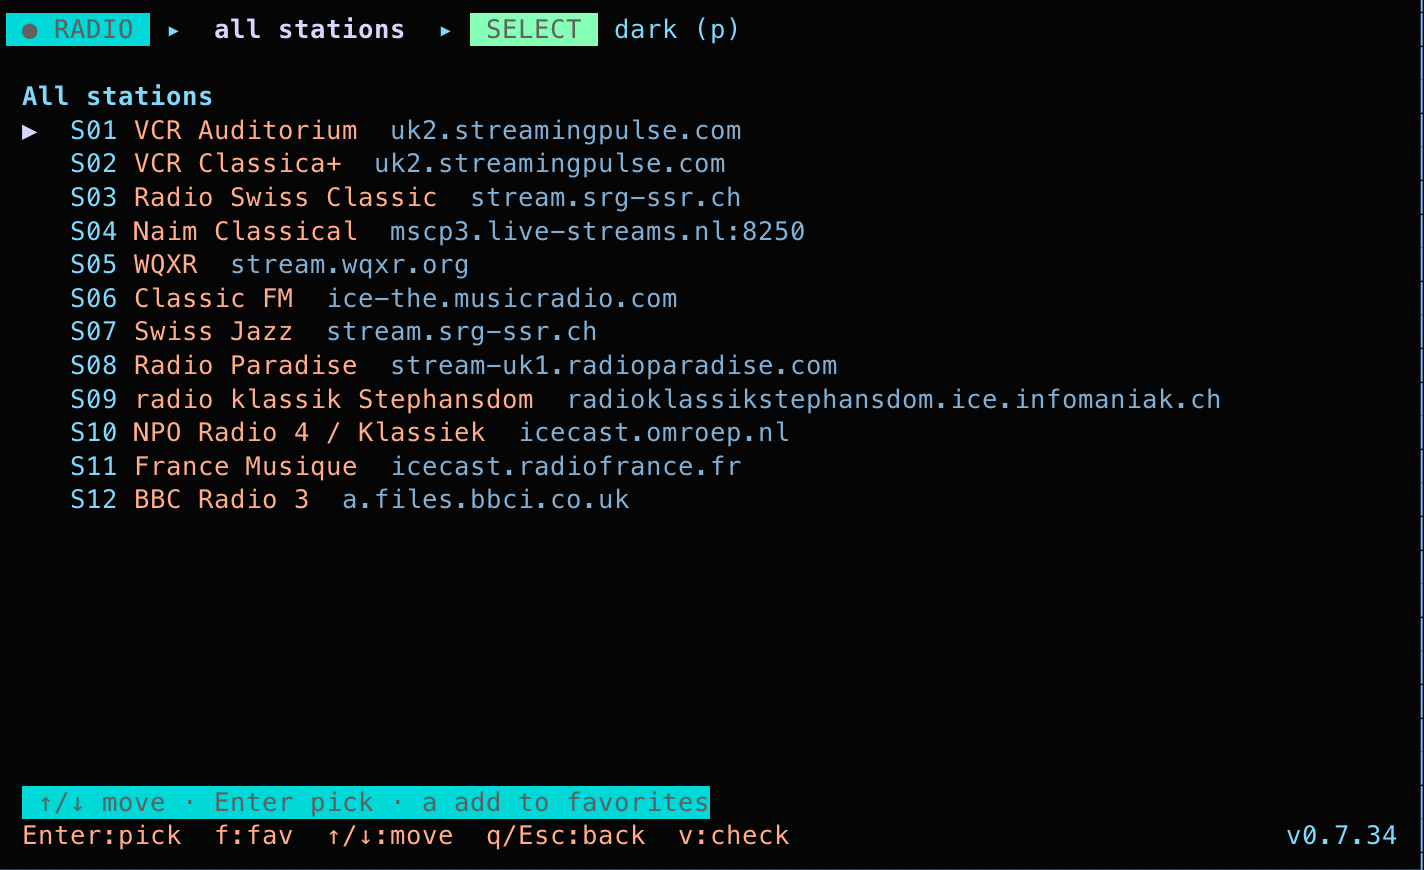
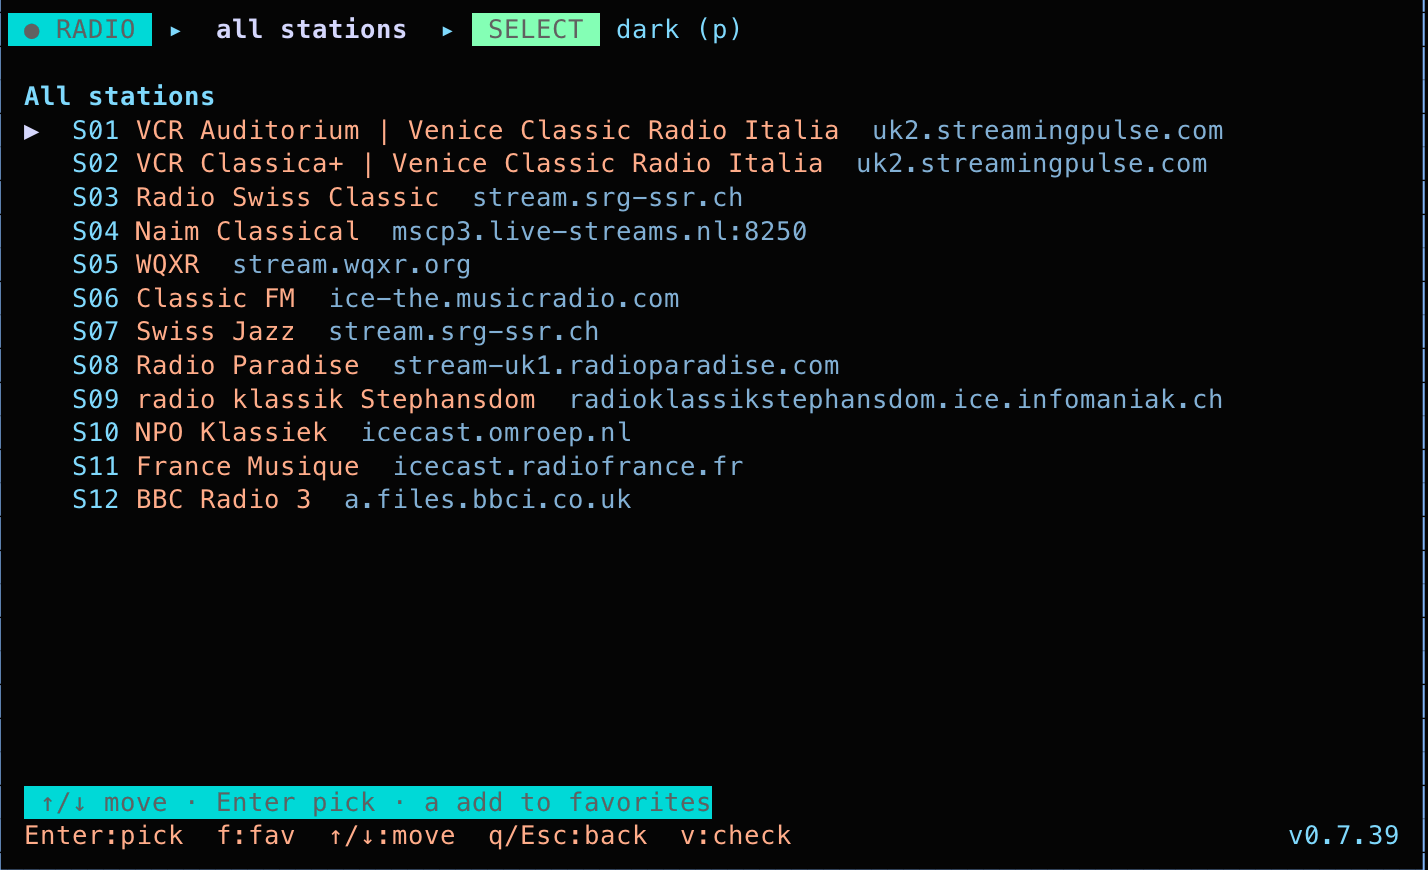
docs: MEMORY up to date (DOCS-sync rule + 0.7.40 state); all-stations.png refreshed after the name fix

diff --git a/.opencode/MEMORY.md b/.opencode/MEMORY.md
@@ -7,6 +7,13 @@
   to origin — then confirm with the resulting commit hash. Never leave work
   uncommitted/unpushed after a task; committing AND pushing correctly is
   critical and has been the source of past mistakes.
+- **DOCS MUST STAY IN SYNC (my responsibility):** whenever a bug is corrected
+  or a feature is added, altered or removed, it is MY job to reflect that in
+  **README.md** and — above all — in **KB.md**, inside the same change/commit,
+  never as an afterthought or a later "oops". README = short appetizer
+  (details point to the KB); KB.md = the complete, single source of truth.
+  If a release ships a behavior change, the docs for it ship in the same
+  release.
 
 > Read this first in every session so we can pick up where we left off.
 > Update it whenever the project state changes significantly.
@@ -43,7 +50,7 @@
 **mpv** as its audio engine over an IPC socket, plus optional **AI enrichment**
 (trivia note / Work line / verified Wikipedia link) for the now-playing track.
 
-- Single self-contained file: `./mradio` (~1058 lines), Python 3.8+, **stdlib
+- Single self-contained file: `./mradio` (~1790 lines), Python 3.8+, **stdlib
   only, no pip dependencies**.
 - Repo: `git@github.com:Marcus1571/mradio.git` (user: `Marcus1571`).
 - No local demo branch conventions — trivial `main` history, semantic-version
@@ -51,39 +58,44 @@
 
 ## Current state
 
-- **Latest version:** `0.7.24` (in-code `VERSION`; released tag + GitHub
-  Release with assets, `Latest`).
+- **Latest version / release:** `0.7.40` (in-code `VERSION`, released tag +
+  GitHub Release with assets `mradio` + `install.sh`, verified `Latest`).
+  `main` is kept in sync with every release (push `main` alongside each tag).
 - **Palettes:** `p` rotates `dark` → `light` → `light-navy` → `light-mauve`
   (256-color Catppuccin-inspired, ANSI fallback; pair 5 = muted subtext).
-- **Sub-project — station presets:** see `.opencode/stationsproject.md` for
-  the living candidate/approved station list. **The user personally approves
-  each station; the assistant must NEVER add stations to the file on its own
-  initiative.** Approved: `WQXR`, `Radio Swiss Classic` (label "Swiss Classic
-  I" — Italian feed). Shipped in releases: station menu (0.7.25), reordered
-  defaults + honest help (0.7.26), picker `v`/`u`/`U` keys (0.7.27),
-  favorites vs all-stations split (0.7.28): `f` = your numbered list from
-  `~/.local/share/mradio/stations.json` (key `"favorites"`, seeded once from
-  `DEFAULT_STATIONS`, releases never touch it), `s` = the curated `S01…Snn`
-  list (grows per release, `a` adds a row to favorites), bare launch opens
-  `f`. **On `main`, unreleased (next = 0.7.29):** favorites go up to 10
-  (`1-9` then `0`); numeric-pad digits (terminal-sent `Esc`-prefixed
-  sequences) resolve to the same hot-picks as the main number row.
-  Legacy `config.json` → `"stations"` migrated on first run;
-  `MRADIO_STATIONS` overrides the path.
-- **Docs:** `README.md` = quick start; **`KB.md`** = the full reference manual
-  (every key, menu, config/`stations.json`, env vars, update flow, AI
-  enrichment, troubleshooting, privacy) — keep in sync when features change;
-  `CHANGELOG.md` = release history.
-- **Latest release:** `0.7.28` (tag + GitHub Release, assets mradio/install.sh,
-  `Latest`). The U self-update flow was validated live earlier (v0.7.18 →
-  v0.7.19 → apply on restart).
-- **0.7.21 work (uncommitted until c.p'd):** `v` key forces a version check
-  without quitting — `force_check(state)` serializes via `_forced_lock` /
-  `_check_lock`, flashes outcome via `_latest["note"]` → `update_msg`
-  ("new version vX — press U" / "up to date (vX)" / "check failed"). Hints now
-  `u:page  U:apply  v:check`. 25 unit tests.
-- **NOTE:** user prefers to update locally themselves via the `U` key
-  (self-update) — do NOT run `install.sh` for them unless asked.
+- **Station model (0.7.28+):** two deliberate lists.
+  - **Favorites** (`f`): user's list in
+    `~/.local/share/mradio/stations.json` (key `"favorites"`), max **10** hot
+    slots (`1-9` + `0`; numpad digits resolve via `_follow_esc`). Seeded once,
+    on first run, from the **first 10** of `DEFAULT_STATIONS`; legacy
+    `config.json` `"stations"` migrated once (trimmed to 10). Releases never
+    touch it. `a` (in the `s` menu) adds a row but refuses when full ("favorites
+    full"). `MRADIO_STATIONS` overrides the path.
+  - **All stations** (`s`): the curated `S01…Snn` list shipped in the code
+    (`DEFAULT_STATIONS`, currently 12) — this is how the project pushes new
+    stations without overriding the user's list.
+  - **Names:** both lists now use the real broadcast names (icy): `VCR
+    Auditorium | Venice Classic Radio Italia`, `VCR Classica+ | Venice Classic
+    Radio Italia`, `NPO Klassiek`. At runtime an icy-name also overrides the
+    JSON label (label is only a fallback; the v0.7.34 fix).
+- **Footer (0.7.30+):** 3 rows — h-3 AI (`z:expand`), h-2 dark-grey mid
+  (`f:favorites s:all k:kb v:check`; update pill + `u:page U:apply` there; the
+  `v` check result flashes here, works without AI), h-1 transport + version.
+- **Docs:** `README.md` = short marketing appetite (tagline, screenshots,
+  every paragraph links to the KB); **`KB.md`** = the complete reference
+  (keys, menus, install recipes per distro incl. Omarchy, stations, config,
+  env vars, updates, AI, FAQ) — **single source of truth; keep in sync every
+  change** (see the DOCS rule above). `CHANGELOG.md` = release history.
+  `screenshots/` = REAL captures of the running app (not mocks — the mock
+  renderer was deleted so nothing overwrites them).
+- **Update flow:** `update_watcher()` daemon thread checks at every startup
+  (one immediate ETag check, then hourly). `U` self-updates in place; user
+  prefers to run `U` themselves — never run `install.sh` for them unless asked.
+  `v` forces a check mid-session.
+- **AI enrichment:** Enricher thread, provider order opencode → ollama → API
+  (`1/2/3` live-switch), cache keyed per track+provider, verified Wikipedia
+  links. Defaults: model `gemma3:4b`; API base `https://api.openai.com/v1`
+  (`MRADIO_API_BASE`), default `gpt-4o-mini`.
 
 ## Why mpv as the engine
 
@@ -158,7 +170,7 @@ mpv's IPC socket — decoding/network/metadata all belong to mpv.
 | `k`/`K` | open KB.md in the browser (player screen; `k` = cursor-up inside station menus) |
 | `z` | expand/collapse full trivia note (full-screen) |
 | `1`/`2`/`3` | pick AI provider (opencode/ollama/api) — re-fetches current track even if cached |
-| `f` | open your favorites (`1-9`,`0` quick-pick, pads work too; `~/.local/share/mradio/stations.json`) |
+| `f` | open your favorites (`1-9`,`0` quick-pick — max **10**, pads work too; `~/.local/share/mradio/stations.json`) |
 | `s` | open the all-stations list (`S01…Snn`; `a` adds the row to favorites) |
 | `p` | rotate color schemes: `dark`, `light`, `light-navy`, `light-mauve` (remembered) |
 
@@ -178,10 +190,36 @@ mpv's IPC socket — decoding/network/metadata all belong to mpv.
   terminal text selection works; opt in with `"mouse": 1`.
 - **0.7.13** — station name from stream's own icy-name metadata (instead of CDN
   host); optional second arg `<url> "<name>"` to override.
-- **0.7.14** *(unreleased)* — thread-safety lock for all Enricher shared state;
-  `urljoin` endpoint building; opencode pidfile + port-probe zombie prevention;
+- **0.7.14** — thread-safety lock for all Enricher shared state; `urljoin`
+  endpoint building; opencode pidfile + port-probe zombie prevention;
   guaranteed mpv/Enricher/socket cleanup on every exit path; render() dedup
   helpers; `make test` / `make smoke` / `test_mradio.py` (13 unit tests).
+- **0.7.25** — station menu/picker (pick your stream at startup).
+- **0.7.26** — reordered default stations + honest help line.
+- **0.7.27** — picker keys `v`/`u`/`U`.
+- **0.7.28** — **favorites vs all-stations split**: `f` = your `stations.json`
+  list (seeded once, never touched again), `s` = curated `S01…Snn` (`a` adds
+  a row), bare launch opens favorites, legacy `config.json` migration,
+  `MRADIO_STATIONS`.
+- **0.7.29** — favorites up to 10 (`1-9` then `0`); numpad digits resolve to
+  the hot-picks (`_follow_esc`).
+- **0.7.30** — 3-row footer (AI / mid + update pill / transport); help cleanup.
+- **0.7.31** — mid row dark-grey (pair 5 + A_DIM); `z:expand` on the AI row;
+  `f`/`s`/`v` on the mid row.
+- **0.7.32** — **KB.md** created (full reference manual), linked from README.
+- **0.7.33** — `k`/`K` opens KB in browser; `v` flash moved to the always-
+  present mid row (works without AI); README install → points to rich KB
+  install recipes; releases push `main` too.
+- **0.7.34** — **icy-name wins again**: preset picks no longer lock the label,
+  the stream's broadcast name replaces the short JSON name.
+- **0.7.35/36** — README becomes a marketing piece with screenshots (initial
+  mock renders, then CoreText attempts, then…).
+- **0.7.38** — **real screenshots** of the running app replace the generated
+  mocks (`screenshots/*.png`); mock renderer deleted.
+- **0.7.39** — all-stations (`DEFAULT_STATIONS`) names updated to the real
+  broadcast names (matches favorites).
+- **0.7.40** — **favorites capped at 10** everywhere: seed `[:10]`, migration
+  trimmed, `a` refuses when full, menu renders only the 10 hot rows.
 
 ## Env vars (optional overrides; settings.json is the source of truth)
 
@@ -239,7 +277,6 @@ make smoke   # mradio --version / --help
 
 ## Open questions / possible next steps
 
-- 0.7.14 fixes are uncommitted; when the user wants, commit + tag `v0.7.14`
-  + push (only when asked).
-- `.opencode/MEMORY.md` and `.opencode/` are untracked — decide whether to
-  commit them (recommended) or keep them local.
+- Nothing outstanding. `.opencode/MEMORY.md` + `.opencode/stationsproject.md`
+  are tracked in the repo. House rule: keep both, plus README and KB.md, in
+  sync with every change (see the DOCS rule at the top).
